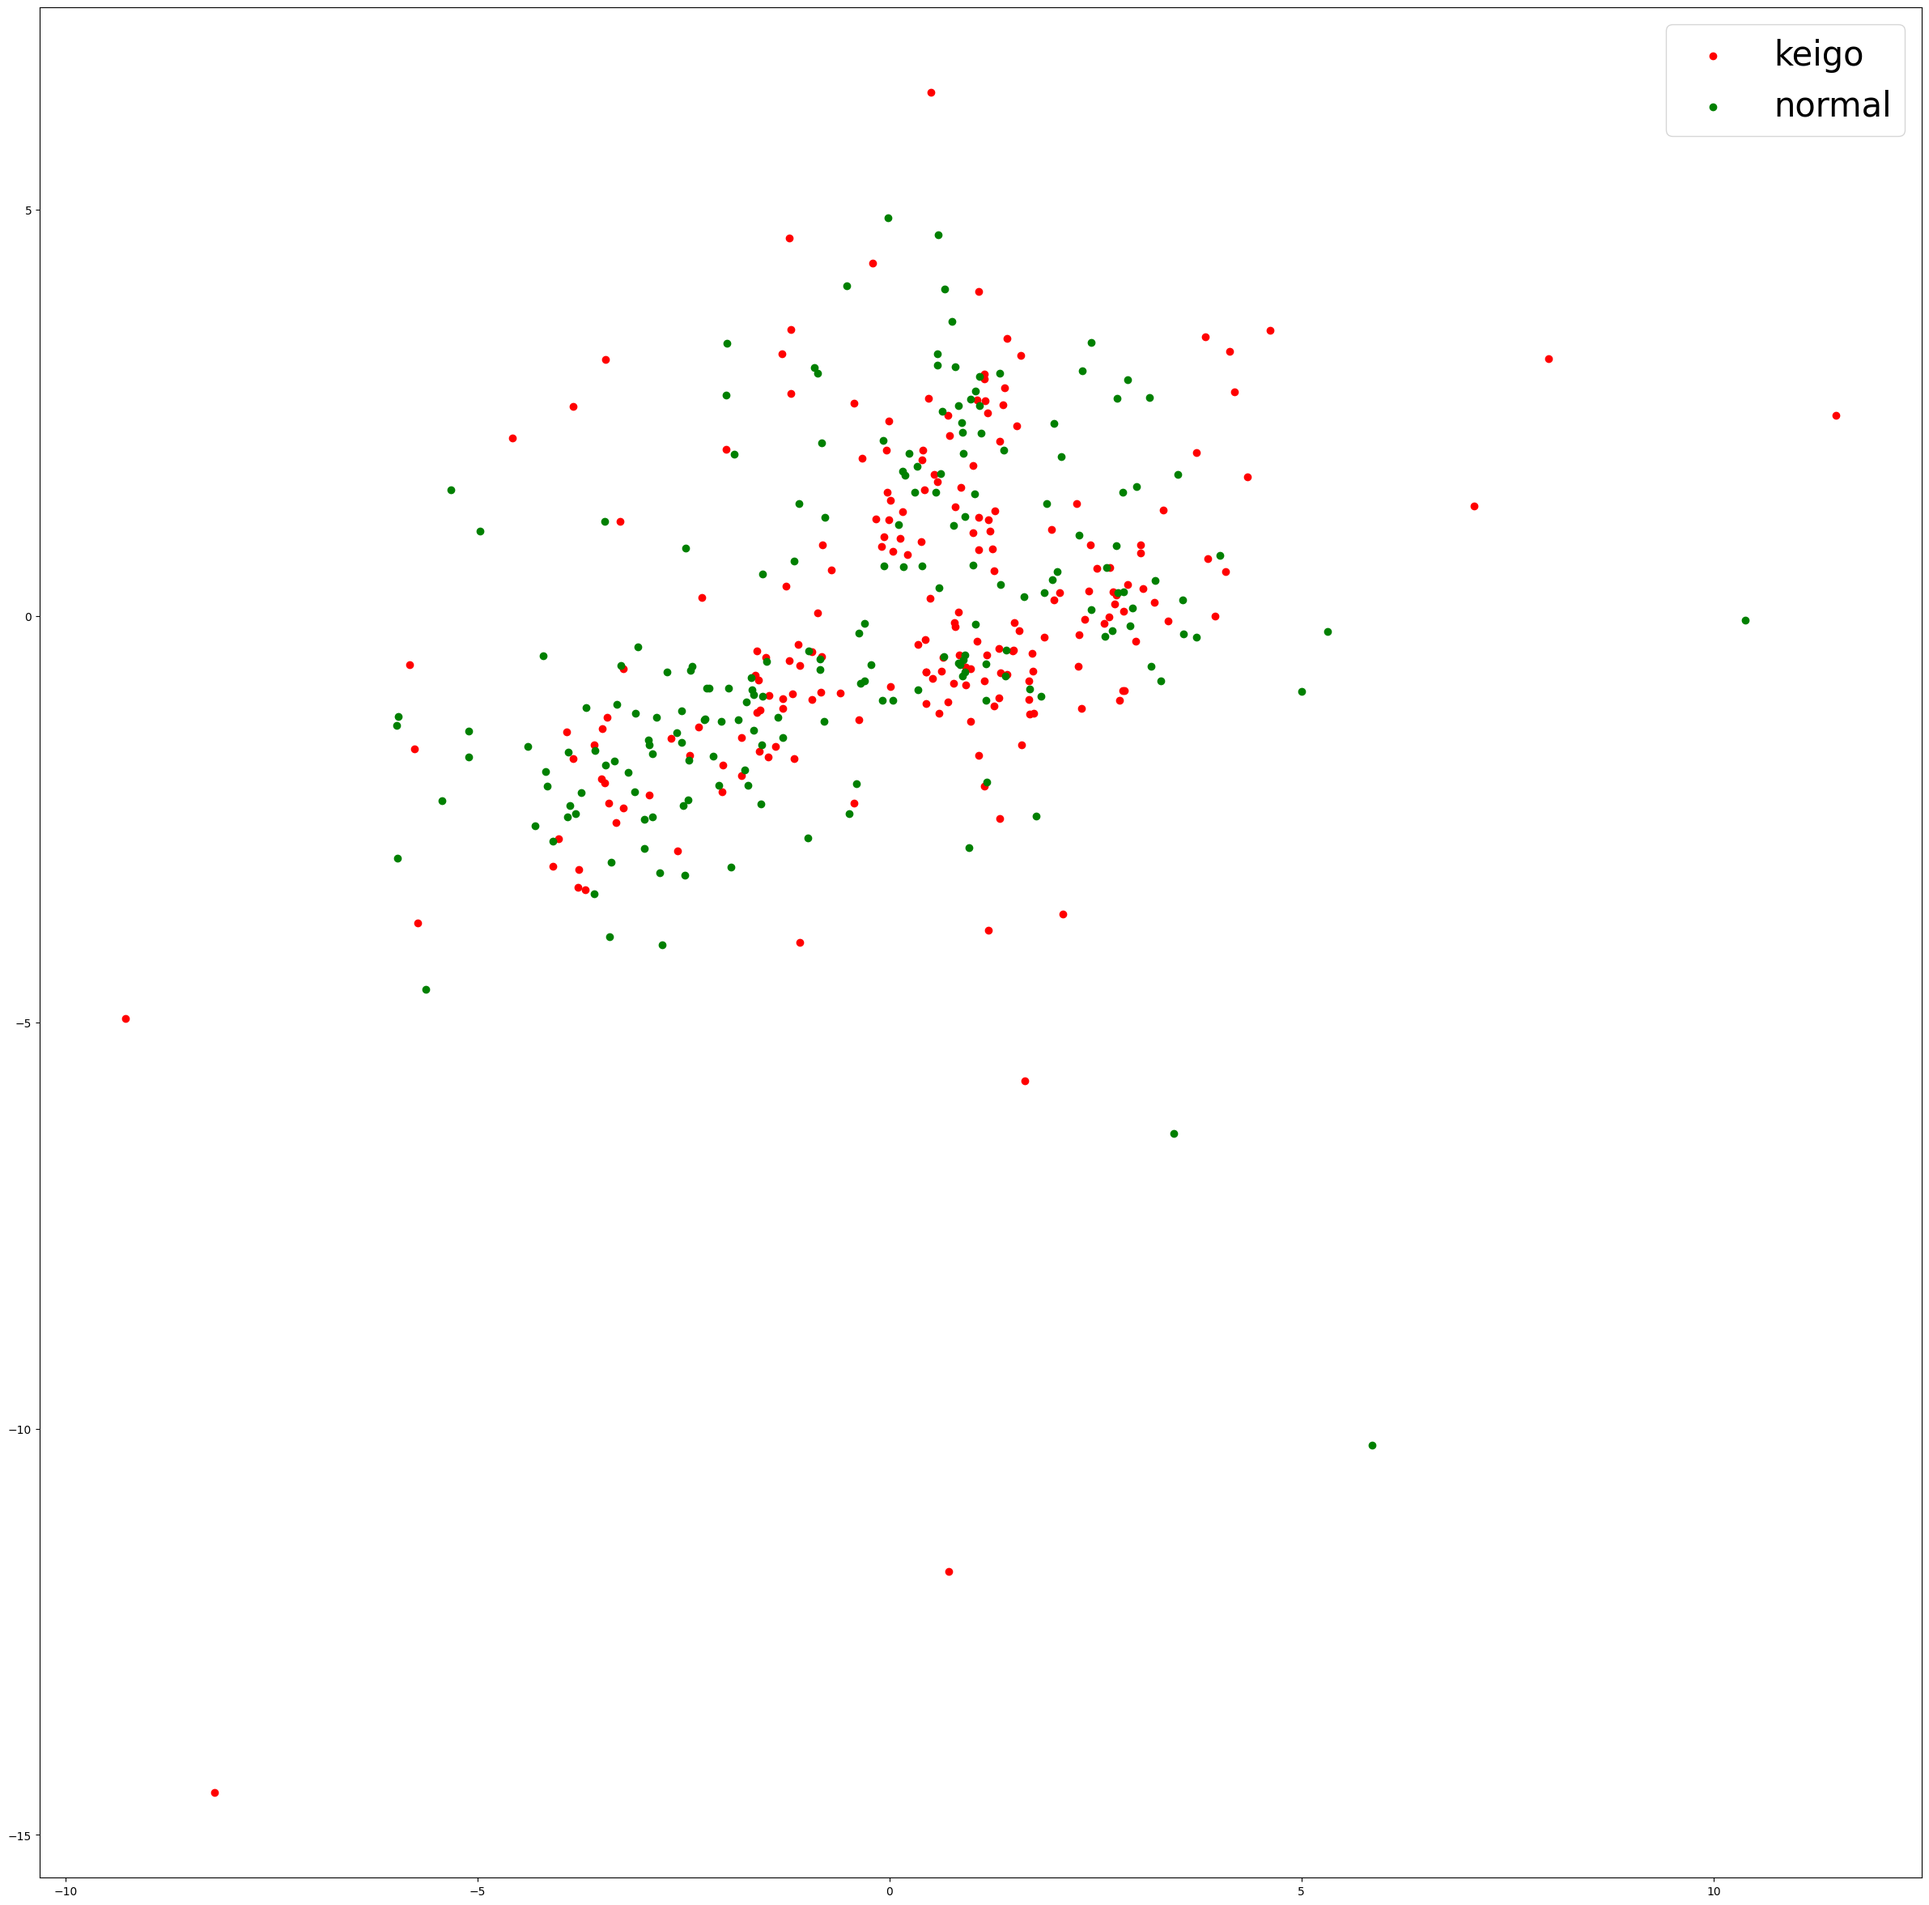
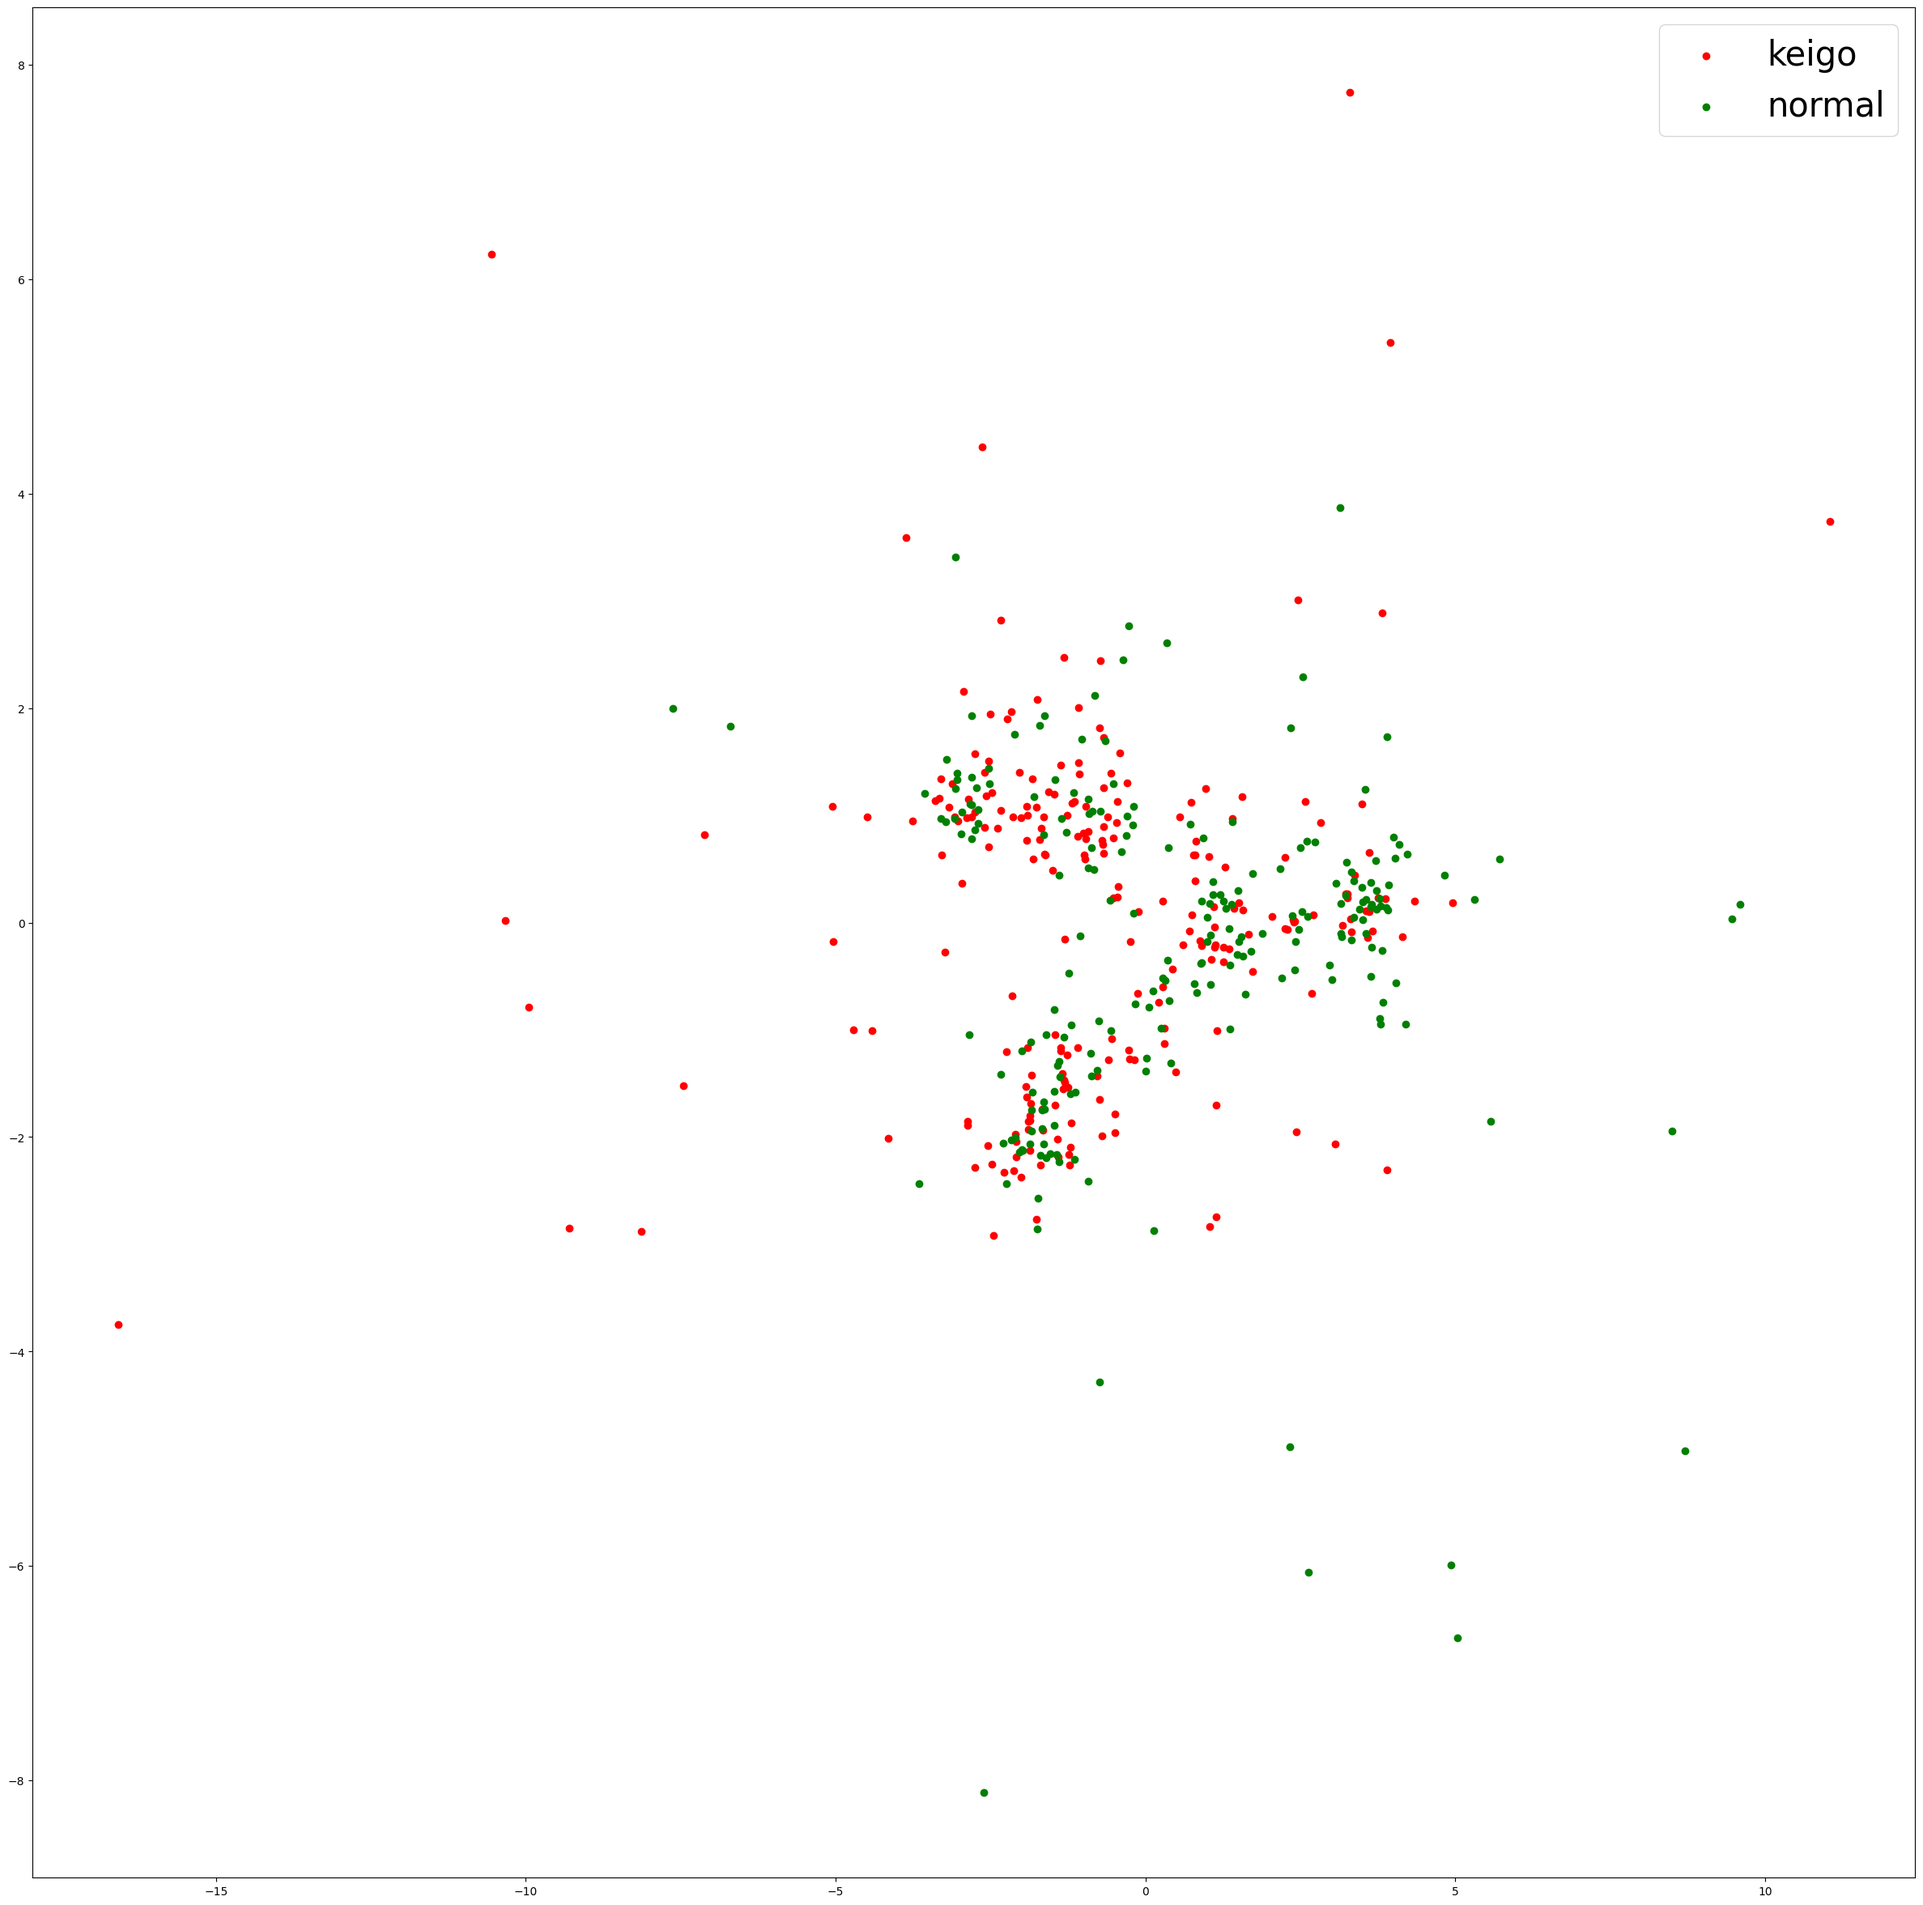
try n_iter

diff --git a/eval_generation.py b/eval_generation.py
@@ -203,7 +203,7 @@ def t_SNE_visualization(dataset_train, dataset_val, dataset_reader, style_vocab,
 
     # ndarrayからcsr?matrixへの変換
     style_embed_csr =csr_matrix(style_embeds_sq)
-    for n_iter in [260, 270, 280, 290]:
+    for n_iter in [250,]:
         tsne = TSNE(n_components=2, random_state = 0, perplexity = 30, n_iter = n_iter)
         X_style = tsne.fit_transform(style_embeds_sq)
         ddf = pd.concat([df, pd.DataFrame(X_style, columns = ['col1', 'col2'])], axis = 1)
@@ -246,7 +246,7 @@ def main():
     
     swap(dataset_train, dataset_val, dataset_reader, vocab, style_vocab, model, 500, 501)
 
-    t_SNE_visualization(dataset_train, dataset_val, dataset_reader, style_vocab, model, 400, 'keigo_form_embeddings.png')
+    t_SNE_visualization(dataset_train, dataset_val, dataset_reader, style_vocab, model, 450, 'keigo_form_embeddings.png')
 
 
 if __name__ == '__main__':
